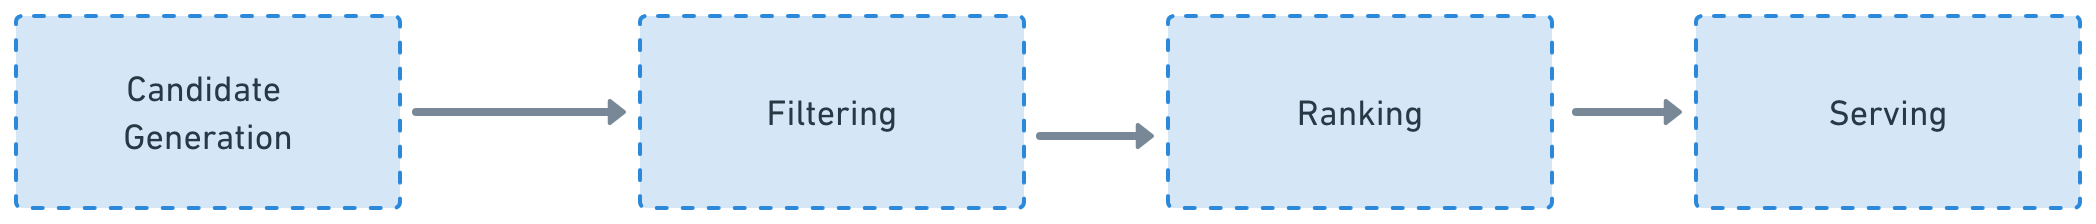
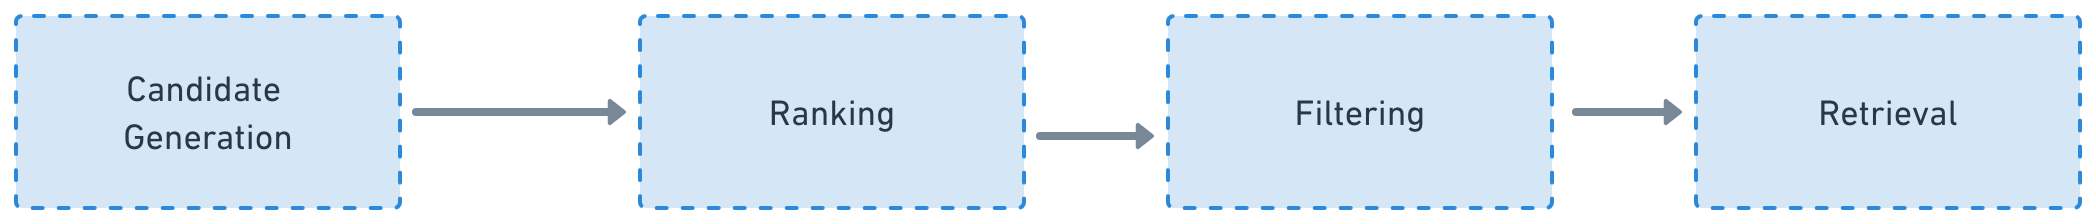
Updates from Overleaf

Changed region(s): [[0.3411, 0.4375, 0.4342, 0.5938], [0.8683, 0.4375, 0.9303, 0.5938], [0.6202, 0.4375, 0.6823, 0.5938]]

diff --git a/embeddings.tex b/embeddings.tex
@@ -637,7 +637,9 @@ We have finally trained our model. Now, we test the model's predictions on the 2
 We just saw a simple example of machine learning as it relates to predicting continuous response variables. When our business question is, "What would be good content to show our users," we are facing the machine learning task for recommendation. Recommender systems are systems set up for \textbf{information retrieval}, a field closely related to NLP that's focused on finding relevant information in large collections of documents.  The goal of information retrieval is to synthesize large collections of unstructured text documents. Within information retrieval, there are two complementary solutions in how we can offer users the correct content in our app: search, and recommendations.
 
 \begin{formal}
-\textbf{Search} is the problem of directed \citep{ekstrand2019recommender} information seeking, i.e. the user offers the system a specific query and would like a set of refined results. Search engines at this point are a well-established traditional solution in the space. \textbf{Recommendation} is a problem where "man is the query." \citep{seaver2022computing}  Here, we don't know what the person is looking for exactly, but we would like to infer what they like, and recommend items based on their learned tastes and preferences.
+\textbf{Search} is the problem of directed \citep{ekstrand2019recommender} information seeking, i.e. the user offers the system a specific query and would like a set of refined results. Search engines at this point are a well-established traditional solution in the space. 
+
+\textbf{Recommendation} is a problem where "man is the query." \citep{seaver2022computing}  Here, we don't know what the person is looking for exactly, but we would like to infer what they like, and recommend items based on their learned tastes and preferences.
 \end{formal}
 
 The first industrial recommender systems were created to filter messages in email and newsgroups \citep{goldberg1992using}  at the Xerox Palo Alto Research Center based on a growing need to filter incoming information from the web.  The most common recommender systems today are those at Netflix, YouTube, and other large-scale platforms that need a way to surface relevant content to users.
@@ -646,13 +648,11 @@ The goal of recommender systems is surface items that are relevant to the user. 
 
 \begin{formal}
 \begin{itemize}
-
-  \item \textbf{Collaborative filtering} - The most common approach users activity from log data (product ratings, clicks on content) in relation to the available items to be rated in order to compute the given utility of an item for a user. There are \textbf{neighborhood models}, where ratings are predicted initially by finding users similar to our given target user and we use similarity functions to compute the closeness of users.
- 
-  Another common approach is using \textbf{model-based} methods such  \textbf{matrix factorization}, the process of representing users and items in a feature matrix made up of low-dimensional factor vectors, which in our case, are also known as embeddings, and learning those feature vectors through the process of minimizing a cost function. This process can be thought of as similar to Word2Vec \citep{levy2014neural}, a deep learning model which we'll discuss in depth in this document.  There are many different approaches to collaborative filtering, including matrix factorization and  \textbf{factorization machines}.
-   \item \textbf{Content filtering} - This approach uses metadata available about our items (for example in movies or music, the title, year released, genre, and so on) as initial or additional features input into models and work well when we don't have much information about user activity, although they are often used in combination with collaborative filtering approaches. Many embeddings architectures fall into this category since they help us model the features for our items.  
-  \item \textbf{Learn to Rank} - Usually machine learning problems like matrix factorization are formulated by minimizing the error of a cost function. Learn to rank methods focus on ranking items in relation to each other based on a known set of preferred rankings and the error is, instead, cases when pairs or lists of items are ranked incorrectly. Here,the problem is not presenting a single item but a set of items and how they interplay. This step would normally take place after candidate generation, in a filtering step because it's computationally expensive to rank extremely large lists.
-  \item \textbf{Neural Recommendations} - The process of using neural networks to capture the same relationships that matrix factorization does without explicitly having to create a user/item matrix and based on the shape of the input data. This is where deep learning networks, and recently, large language models, come into play. Examples of deep learning architectures used for recommendation include Word2Vec and BERT, which we'll cover in this document, and convolutional and recurrent neural networks for sequential recommendation. The big benefit deep learning brings to the table is the ability to better model content-based recommendations and give us representations of our items in the embedding space. \citep{zhang2019deep}
+  \item \textbf{Collaborative filtering} - The most common approach for creating recommendations is to formulate our data as a problem of finding missing user-item interactions in a given set of user-item interaction history. We start by collecting either explicit (ratings) data or \textbf{implicit} user interaction data like clicks, pageviews, or time spent on items, and compute. The simplest form of interactions are \textbf{neighborhood models}, where ratings are predicted initially by finding users similar to our given target user. We use similarity functions to compute the closeness of users.
+  Another common approach is using methods such  \textbf{matrix factorization}, the process of representing users and items in a feature matrix made up of low-dimensional factor vectors, which in our case, are also known as embeddings, and learning those feature vectors through the process of minimizing a cost function. This process can be thought of as similar to Word2Vec \citep{levy2014neural}, a deep learning model which we'll discuss in depth in this document.  There are many different approaches to collaborative filtering, including matrix factorization and  \textbf{factorization machines}.
+   \item \textbf{Content filtering} - This approach uses metadata available about our items (for example in movies or music, the title, year released, genre, and so on) as initial or additional features input into models and work well when we don't have much information about user activity, although they are often used in combination with collaborative filtering approaches. Many embeddings architectures fall into this category since they help us model the textual features for our items.  
+  \item \textbf{Learn to Rank} -  Learn to rank methods focus on ranking items in relation to each other based on a known set of preferred rankings and the error is the number of cases when pairs or lists of items are ranked incorrectly. Here, the problem is not presenting a single item, but a set of items and how they interplay. This step normally takes place after candidate generation, in a filtering step, because it's computationally expensive to rank extremely large lists.
+  \item \textbf{Neural Recommendations} - The process of using neural networks to capture the same relationships that matrix factorization does without explicitly having to create a user/item matrix and based on the shape of the input data. This is where deep learning networks, and recently, large language models, come into play. Examples of deep learning architectures used for recommendation include Word2Vec and BERT, which we'll cover in this document, and convolutional and recurrent neural networks for sequential recommendation (such as is found in music playlists, for example). Deep learning brings allows us to better model content-based recommendations and give us representations of our items in an embedding space. \citep{zhang2019deep}
 \end{itemize}
 \end{formal}
 
@@ -664,24 +664,20 @@ Recommender systems have evolved  their own unique architectures\footnote{For a 
 \caption{Recommender systems as a machine learning problem}
 \end{figure}
 
+\begin{formal}
 \begin{itemize}
   \item \textbf{Candidate Generation} - First, we ingest data from the web app.  This data goes into the initial piece, which hosts our first-pass model generating \textbf{candidate recommendations}. This is where collaborative filtering takes place, and we whittle our list of potential candidates down from millions to thousands or hundreds.
-  \item \textbf{Filtering} - Once we have a generated list of candidates, we want to continue to filter them, using business logic (i.e. we don't want to see NSFW content, or items that are not on sale, for example.). This is generally a heavily heuristic-based step.
   \item \textbf{Ranking} - Finally, we need a way to order the filtered list of recommendations based on what we think the user will prefer the most, so the next stage is \textbf{ranking}, and then we serve them out in the timeline or the ML product interface we're working with.
+  \item \textbf{Filtering} - Once we have a generated list of candidates, we want to continue to filter them, using business logic (i.e. we don't want to see NSFW content, or items that are not on sale, for example.). This is generally a heavily heuristic-based step.
   \item \textbf{Retrieval} - This is the piece where the web application usually hits a model endpoint to get the final list of items served to the user through the product UI.
 \end{itemize}
+\end{formal}
     
-Databases have become the fundamental tool in building backend infrastructure that performs data lookups. Embeddings have become similar building blocks in the creation of many modern search and recommendation product architectures.Embeddings are a type of \textbf{machine learning feature} that we use first as input into the feature engineering stage, and the first set of results that come from our candidate generation stage, that are then incorporated into downstream processing steps of ranking and retrieval to produce the final items the user sees.
-
-\begin{figure}[H]
-\centering{\includegraphics[width=\textwidth]{figures/embed_flow.png}}
-\caption{Embeddings in the context of building an ML candidate generator model}
-\end{figure}
-
+Databases have become the fundamental tool in building backend infrastructure that performs data lookups. Embeddings have become similar building blocks in the creation of many modern search and recommendation product architectures. Embeddings are a type of \textbf{machine learning feature} --- or model input data --- that we use first as input into the feature engineering stage, and the first set of results that come from our candidate generation stage, that are then incorporated into downstream processing steps of ranking and retrieval to produce the final items the user sees.
 
 \subsubsection{Machine learning features}
 
-Now that we have a high-level conceptual view of recommender systems, let's build towards the candidate generation model that will offer relevant flits.
+Now that we have a high-level conceptual view of how machine learning and recommender systems work, let's build towards a candidate generation model that will offer relevant flits.
 
 Let's start by modeling a traditional machine learning problem and contrast it with our NLP problem. For example, let's say that one of our business problems is predicting whether a bird is likely to continue to stay on Flutter or to churn\footnote{An extremely common business problem to solve in almost every industry where either customer population or subscription based on revenues is important} --- disengage and leave the platform.
 
@@ -720,7 +716,7 @@ These are all discrete features that we can feed into our model and learn weight
 The process of formatting data correctly to feed into a model is called \textbf{feature engineering}. When we have a single continuous, numerical feature, like “the age of the flit in days”, it’s easy to feed these features into a model. But, when we have textual data, we need to turn it into numerical representations so that we can compare these representations.  
 
 \subsection{Numerical Feature Vectors}
-Within the context of working with text in machine learning, we represent features as numerical vectors. We can think of each row in our tabular feature data as a vector. And a collection of features, or our tabular representation, is a matrix. For example, in the vector for our first user, $[012, 2, 'US', 5]$, we can see that this particular value is represented by four features. When we create vectors, we can run algorithmic computations over them and use them as inputs into ML models in the numerical form we require.
+Within the context of working with text in machine learning, we represent features as numerical vectors. We can think of each row in our tabular feature data as a vector. And a collection of features, or our tabular representation, is a matrix. For example, in the vector for our first user, \mintinline{python}{[012, 2, 'US', 5]}, we can see that this particular value is represented by four features. When we create vectors, we can run mathematical computations over them and use them as inputs into ML models in the numerical form we require.
 
 Mathematically, vectors are collections of coordinates that tell us where a given point is in space among many dimensions. For example, in two dimensions, we have a point $[2,5]$, representing \mintinline{python}{bird_posts} and \mintinline{python}{bird_likes}.
 
@@ -785,7 +781,7 @@ But how do we repres ent "US" or "UK" in this space? Because modern models conve
 
 
 \subsection{From Words to Vectors in Three Easy Pieces}
-In "Operating Systems: Three Easy Pieces", the authors write, "Like any system built by humans, good ideas accumulated in operating systems over time, as engineers learned what was important in their design." \citep{arpaci2018operating} The same is true for today's large language models. They were built on hundreds of foundational ideas over the course of decades.  There are, similarly, several fundamental concepts that make up the work of transforming words to numerical representations.
+In "Operating Systems: Three Easy Pieces", the authors write, "Like any system built by humans, good ideas accumulated in operating systems over time, as engineers learned what was important in their design." \citep{arpaci2018operating} Today's large language models were likewise built on hundreds of foundational ideas over the course of decades.  There are, similarly, several fundamental concepts that make up the work of transforming words to numerical representations.
 
 These show up over and over again, in every deep learning architecture and every NLP-related task\footnote{When we talk about tasks in NLP-based machine learning, we mean very specifically, what the machine learning problem is formulated to do. For example, we have the task of ranking, recommendation, translation, text summarization, and so on.}:
 
@@ -886,7 +882,7 @@ linenos
 from sklearn.preprocessing import OrdinalEncoder
 
 data = [['US'], ['UK'], ['NZ']]
-print(data)
+>>> print(data)
 [['US']
  ['UK']
  ['NZ']]
@@ -894,7 +890,7 @@ print(data)
 # our label features
 encoder = OrdinalEncoder()
 result = encoder.fit_transform(data)
-print(result)
+>>> print(result)
 [[2.]
  [1.]
  [0.]]
@@ -906,9 +902,7 @@ print(result)
 
 indicator encoding is, given $n$ categories (i.e. "US", "UK", and "NZ") encodes the variables into $n-1$ categories, creating a new feature for each category. So, if we have three variables, indicator encoding encodes into two indicator variables.  Why would we do this? If the categories are mutually exclusive, as they usually are in point-in-time geolocation estimates, if someone is in the US, we know for sure they're not in the UK and not in NZ, so it reduces computational overhead.
 
-If we instead use all the variables and they are very closely correlated, there is a chance we'll fall into something known as the \textbf{indicator variable trap}. We can predict one variable from the others, which means we no longer have feature independence. This generally isn't a risk for geolocation since there are more than 2 or 3 and if you're not in the US, it's not guaranteed that you're in the UK. So, if we have US = 1, UK = 2, and NZ = 3, and prefer more compact representations, we can use indicator encoding.
-
-However, many modern ML approaches don't require linear feature independence and use L1 regularization\footnote{Regularization is a way to prevent our model from overfitting. Overfitting means our model can exactly predict outcomes based on the training data, but it can't learn new inputs that we show it, which means it can't generalize} to prune feature inputs that don't minimize the error, and as such only use one-hot encoding.
+If we instead use all the variables and they are very closely correlated, there is a chance we'll fall into something known as the \textbf{indicator variable trap}. We can predict one variable from the others, which means we no longer have feature independence. This generally isn't a risk for geolocation since there are more than 2 or 3 and if you're not in the US, it's not guaranteed that you're in the UK. So, if we have US = 1, UK = 2, and NZ = 3, and prefer more compact representations, we can use indicator encoding.  However, many modern ML approaches don't require linear feature independence and use L1 regularization\footnote{Regularization is a way to prevent our model from \textbf{overfitting}. Overfitting means our model can exactly predict outcomes based on the training data, but it can't learn new inputs that we show it, which means it can't generalize} to prune feature inputs that don't minimize the error, and as such only use one-hot encoding.
 
 \textbf{One-hot encoding} is the most commonly-used of the count-based methods. This process creates a new variable for each feature that we have.  Everywhere the element is present in the sentence, we place a “1” in the vector. We are creating a mapping of all the elements in the feature space, where $0$ indicates a non-match and $1$ indicates a match, and comparing how similar those vectors are.
 
@@ -928,10 +922,10 @@ enc = OneHotEncoder(handle_unknown='ignore')
 data = np.asarray([['US'], ['UK'], ['NZ']])
 enc.fit(data)
 enc.categories_
-# Result: [array(['NZ', 'UK', 'US'], dtype='<U2')]
+>>> [array(['NZ', 'UK', 'US'], dtype='<U2')]
 onehotlabels = enc.transform(data).toarray()
 onehotlabels
-# Result:
+>>> 
 array([[0., 0., 1.],
    	[0., 1., 0.],
    	[1., 0., 0.]])
@@ -956,7 +950,7 @@ Now that we've encoded our textual features as vectors, we can feed them into th
 
 What we've built is a standard \textbf{logistic regression model}. Generally these days the machine learning community has converged on using gradient-boosted decision tree methods for dealing with tabular data, but we'll see that neural networks build on simple linear and logistic regression models to generate their output, so it's a good starting point.
 
-\textbf{Embeddings as feature inputs}
+\subsubsection*{Embeddings as larger feature inputs}
 
 Once we have encoded our feature data, we can use this input for any type of model that accepts tabular features.  In our machine learning task, we were looking for output that indicated whether a bird was likely to leave the platform based on their location and some usage data. Now, we'd like to focus specifically on surfacing flits that are similar to other flits the user has already interacted with so we'll need feature representations of either/or our users or our content.
 
@@ -984,8 +978,7 @@ We also have other flits we may or may not want to surface in our bird's feed.
 
 How would we turn this into a machine learning problem that takes features as input and a prediction as an output, knowing what we know about how to do this already?  First, in order to build this matrix, we need to turn each word into a feature that's a column value and each user remains a row value.
 
-
-The best way to think of the difference between tabular and free-form representations as model inputs is this illustration, where we're moving from looking at creating a row of individual features per bird, aka \mintinline{Python}{bird1 = [012,2,"US", 5]}, to a row a string of text. In both cases, each of these are vectors, or a list of values that represents a single bird.
+The best way to think of the difference between tabular and free-form representations as model inputs is that a row of tabular data looks like this, \mintinline{Python}{bird1 = [012,2,"US", 5]}, and a "row" or document of text data looks like this, \mintinline{Python}{bird1 = ["No bird soars too high if he soars with his own wings."] } In both cases, each of these are vectors, or a list of values that represents a single bird.
 
 In traditional machine learning, rows are our user data about a single bird and columns are features about the bird. In recommendation systems, our rows are the individual data about each user, and our column data represents the given data about each flit.  If we can factor this matrix, that is decompose it into two matrices ($Q$ and $P^T$) that, when multiplied, the product is our original matrix ($R$), we can learn the "latent factors" or features that allow us to group similar users and items together to recommend them.
 
@@ -1025,13 +1018,13 @@ empty node/.style={fill=none}]
         	&  &  &  &  &  &  &  &  &  &  &  \\
         	&  &  &  &  &  &  &  &  &  &  & \\
 };
-\node[rotate=-90,right=1.5ex of mat3,xshift=-2em,blue] {factors};
+\node[rotate=-90,right=1.5ex of mat3,xshift=-2em,blue] {latent factors};
 \node[above=0ex of mat3,blue] {words};
 \node[below=0.2ex of mat3,scale=2.5,blue] {$\mathsf{P^T}$};
 \end{tikzpicture}
 
 
-The factorization of our feature matrix into these two matrices, where the rows in matrix Q are actually embeddings \citep{levy2014neural} for users and the rows in matrix P are embeddings for tweets, allows us to fill in values for flits that Flutter users have not explicitly liked, and then perform a search across the matrix to find other words they might be interested in. The end-result is our generated recommendation candidates, which we then filter downstream and surface to the user because the core of the recommendation problem is to recommend items to the user.
+The factorization of our feature matrix into these two matrices, where the rows in columns Q are actually embeddings \citep{levy2014neural} for users and the rows in matrix P are embeddings for tweets, allows us to fill in values for flits that Flutter users have not explicitly liked, and then perform a search across the matrix to find other words they might be interested in. The end-result is our generated recommendation candidates, which we then filter downstream and surface to the user because the core of the recommendation problem is to recommend items to the user.
 
 In this base-case scenario, each column could be a single word in the entire vocabulary of every flit we have and the vector we create, shown in the matrix frequency table, would be an insanely large, sparse vector that has a $0$ of occurrence of words in our vocabulary. The way we can build toward this representation is to start with a structure known as a \textbf{bag of words}, or simply the frequency of appearance of text in a given document (in our case, each flit is a document.) This matrix is the input data structure for many of the early approaches to embedding.
 
@@ -1110,7 +1103,7 @@ Sparse vectors result in a number of problems, among these \textbf{cold start}--
 
 To address the limitations of one-hot encoding, TF-IDF, or term frequency-inverse document frequency was developed. TF-IDF was introduced in the 1970s\footnote{By Karen Spärck Jones, whose paper, \href{https://blog.babbar.tech/who-is-karen-sparck-jones/}{"Synonymy and semantic classification} is fundamental to the field of NLP} as a way to create a vector representation of a document by averaging all the document's word weights. It worked really well for a long time and still does in many cases.  For example, one of the most-used search functions, BM25, uses TF-IDF as a baseline  \citep{schutze2008introduction} as a default search strategy in Elasticsearch/Opensearch \footnote{You can read about how Elasticsearch implements BM25 \href{https://www.elastic.co/blog/practical-bm25-part-1-how-shards-affect-relevance-scoring-in-elasticsearch}{here}}. It extends TF-IDF to develop a probability associated with the probability of relevance for each pair of words in a document and it is still being applied in neural search today  \citep{svore2009machine}.  
 
-TF-IDF will tell you how important a single word is in a corpus by assigning it a weight and, at the same time, down-weight common words like "the, a, and." This calculated weight gives us a feature for a single word TF-IDF, and also the relevance of the features across the vocabulary.
+TF-IDF will tell you how important a single word is in a corpus by assigning it a weight and, at the same time, down-weight common words like ,"a", "and", and "the". This calculated weight gives us a feature for a single word TF-IDF, and also the relevance of the features across the vocabulary.
 
 We take all of our input data that's structured in sentences and break it up into individual words, and perform counts on its values, generating the bag of words. TF is term frequency, or the number of times a term appears in a document relative to the other terms in the document.
 
@@ -1238,10 +1231,7 @@ A key problem that makes up the fundamental problem in collaborative filtering a
 
 Mathematically, we can do this by looking at the distance metric between any two given sets of items, and there are a number of different approaches, including  Euclidean distance, edit distance (more specifically, Levenshtein distance and Hamming distance), cosine distance, and more advanced compression approaches like \textbf{minhashing}.
 
-The most commonly used approach in most models where we're trying to ascertain the semantic closeness of two items is \textbf{cosine similarity}, which is the cosine of the angle between two objects represented as vectors, bounded between -1 and 1. -1 means the two items are completely "opposite" of each other and 1 means they are completely the same item. Zero means that you should probably use a distance measure other than cosine similarity because the vectors are entirely unrelated. One point of clarification here is that cosine distance is the actual distance measure and is calculated as $1 - cosine similarity$.
-
-
-
+The most commonly used approach in most models where we're trying to ascertain the semantic closeness of two items is \textbf{cosine similarity}, which is the cosine of the angle between two objects represented as vectors, bounded between -1 and 1. -1 means the two items are completely "opposite" of each other and 1 means they are completely the same item, assuming unit length. Zero means that you should probably use a distance measure other than cosine similarity because the vectors are completely orthogonal to each other. One point of clarification here is that cosine distance is the actual distance measure and is calculated as $1 - {similarity}(\vec{a}, \vec{b})$.
 
 \begin{equation}
 \mathrm{similarity}(\vec{a}, \vec{b}) = \frac{\vec{a} \cdot \vec{b}}{|\vec{a}| |\vec{b}|} = \frac{\sum\limits_{i=1}^{n} a_i b_i}{\sqrt{\sum\limits_{i=1}^{n} a_i^2} \sqrt{\sum\limits_{i=1}^{n} b_i^2}}
@@ -1333,7 +1323,7 @@ Other commonly-used distance measures in semantic similarity and recommendations
 \begin{itemize}
   \item Euclidean distance - calculates the straight-line distance between two points 
   \item Manhattan Distance - Measures the distance between two points by summing the absolute differences of their coordinates
-  \item Jaccard Distance - Computes the dissimilarity between two sets by dividing the size of their intersection by the size of their union. Jaccard distance is caulcuated 
+  \item Jaccard Distance - Computes the dissimilarity between two sets by dividing the size of their intersection by the size of their union. 
   \item Hamming Distance  - Measures the dissimilarity between two sets by dividing the size of their intersection by the size of their union 
 \end{itemize}
 \end{formal}
@@ -1348,61 +1338,10 @@ SVD is a type of matrix factorization that represents a given input feature matr
 
 In the process of performing SVD and decomposing these matrices, we generate a matrix representation that includes the eigenvectors and eigenvalue pairs or the sample covariance pairs.
 
-
-\newcommand{\vect}{\mathbf}
-\newcommand{\nul}{\operatorname{Nul}}
-\newcommand{\col}{\operatorname{Col}}
-\newcommand{\row}{\operatorname{Row}}
-\begin{figure}[H]
-\centering{%
-\small
-\[
-\renewcommand{\arraystretch}{.3}
-   A= U\Sigma V^T=
-  \begin{matrix}
-	\underbrace{\left[\begin{matrix}\vect u_1 & \vect u_2 & \dots & \vect u_r\end{matrix}\right.}&
-	\underbrace{\left.\begin{matrix}\vect u_{r+1} & \dots &  \vect u_m\end{matrix}\right]}\\
-	\col A & \nul A^T
-  \end{matrix}
-  \begin{bmatrix}
-  	\sigma_1 & 0 & \dots & 0 & 0 & \dots & 0 \\
-     	0 & \sigma_2  & \dots & 0 & 0 & \dots & 0 \\
-     	\dots& & & & &  \\
-     	0 & 0 & \dots & \sigma_r  & 0 & \dots & 0 \\
-     	0 & 0 & \dots & 0 & 0 & \dots & 0 \\
-     	\dots& & & & &  \\
-     	0 & 0 & \dots & 0 & 0 & \dots & 0
-  \end{bmatrix}
-  \begin{bmatrix}
-	\vect v_1^T \\ \vect v_2^T \\ \dots \\ \vect v_r^T \\
-	\vect v_{r+1}^T \\ \dots \\ \vect v_n^T
-  \end{bmatrix}
-  \begin{matrix}
-	\left.\vphantom{\begin{bmatrix}
-   	\vect v_1^T \\ \vect v_2^T \\ \dots \\ \vect v_r^T
-   	\end{bmatrix}}\right\}\row A \\
-	\left.\vphantom{\begin{bmatrix}
-  	\vect v_{r+1}^T \\ \dots \\ \vect v_n^T
-	\end{bmatrix}}\right\}\nul A
-  \end{matrix}
-\]
-}
-\caption{SVD decomposes our feature matrix into three matrices}
-\end{figure}
-
-
 PCA uses the same initial input feature matrix, but whereas one-hot encoding simply converts the text features into numerical features that we can work with, PCA also performs compression and projects our items into a two-dimensional feature space.  The first principal component is the scaled eigenvector of the data, the weights of the variables that describe your data best, and the second is the weights of the next set of variables that describe your data best.
 
-The resulting model is a projection of all the words, clustered into a single space based on these dimensions. While we can't get individual meanings of all these components, it’s clear that the clusters of words, aka features, are \textbf{semantically similar}, that is they are close to each other in meaning\footnote{There are many definitions of semantic similarity - what does it mean for "king" and "queen" to be close to each other? - but a high-level approach involves using original sources like thesauri and dictionaries to create a structured knowledge base and offer a structured representation of terms and concepts based on nodes and edges, aka how often they appear near each other. \cite{chandrasekaran2021evolution}}. This can be conceptually hard to visualize, so here's an illustration of the principal components of the iris dataset among three features, represented in two vectors.
-
-\begin{figure}[H]
-    	\center{\includegraphics[width=\textwidth]
-    	{figures/pca.png}}
-    	\caption{PCA creates grouped clusters}
-  	\end{figure}
-
-
-
+The resulting model is a projection of all the words, clustered into a single space based on these dimensions. While we can't get individual meanings of all these components, it’s clear that the clusters of words, aka features, are \textbf{semantically similar}, that is they are close to each other in meaning\footnote{There are many definitions of semantic similarity - what does it mean for "king" and "queen" to be close to each other? - but a high-level approach involves using original sources like thesauri and dictionaries to create a structured knowledge base and offer a structured representation of terms and concepts based on nodes and edges, aka how often they appear near each other. \cite{chandrasekaran2021evolution}}. 
+ 
 The difference between the two is often confusing (people admitted as much in the 80s \cite{gerbrands1981relationships} when these approaches were still being worked out), and for the purposes of this survey paper we'll say that PCA can often be implemented using SVD \footnote{\href{https://scikit-learn.org/stable/modules/generated/sklearn.decomposition.PCA.html}{This is how it's implemented in the scikit-learn package}}.  
 
 
@@ -1410,7 +1349,7 @@ The difference between the two is often confusing (people admitted as much in th
 
 Because PCA performs computation on each combination of features to generate the two dimensions, it becomes immensely computationally expensive as the number of features grows.  Many of these early methods, like PCA, worked well for smaller datasets, like many of the ones used in traditional NLP research,  but as datasets continued to grow, they didn’t quite scale.  
 
-Other approaches grew out of TF-IDF and PCA to address their limitations, including \textbf{latent semantic analysis} (LSA) and \textbf{latent dirichlet analysis} (LDA) LDA\cite{cvitanic2016lda}.  Both of these approaches start with the input document matrix that we built in the last section. The underlying principle behind both of these models is that words that occur close together more frequently have more important relationships. LSA uses the same word weighting that we used for TF-IDF and looks to combine that matrix into a lower rank matrix, a cosine similarity matrix. In the matrix, the values for the cells range from [-1,1], where -1 represents documents that are complete opposites and 1 means the documents are identical. LSA then runs over the matrix and groups items together.  
+Other approaches grew out of TF-IDF and PCA to address their limitations, including \textbf{latent semantic analysis} (LSA) and \textbf{latent dirichlet analysis} (LDA) \cite{cvitanic2016lda}.  Both of these approaches start with the input document matrix that we built in the last section. The underlying principle behind both of these models is that words that occur close together more frequently have more important relationships. LSA uses the same word weighting that we used for TF-IDF and looks to combine that matrix into a lower rank matrix, a cosine similarity matrix. In the matrix, the values for the cells range from [-1,1], where -1 represents documents that are complete opposites and 1 means the documents are identical. LSA then runs over the matrix and groups items together.  
 
 LDA takes a slightly different approach. Although it uses the same matrix for input, it instead outputs a matrix where the rows are words and columns are documents. The distance measure, instead of cosine similarity, is the numerical value for the topic that the intersection of the word and document provide.  The assumption is that any sentence we input will contain a collection of topics, based on proportions of representation in relation to the input corpus, and that there are a number of topics that we can use to classify a given sentence. We initialize the algorithm by assuming that there is a non-zero probability that each word could appear in a topic. LDA initially assigns words to topics at random, and then iterates until it converges to a point where it maximizes the probability for assigning a current word to a current topic.  In order to do the word-to-topic mapping, LDA generates an embedding that creates a space of clusters of words or sentences that work together semantically.
 
@@ -1530,13 +1469,13 @@ However, as in other cases, when we reach high dimensions, SVMs completely fail 
 
 To get around the limitations of earlier textual approaches and keep up with growing size of text corpuses, in 2013, researchers at Google came up with an elegant solution to this problem using neural networks, called Word2Vec \citep{mikolov2013efficient}.  
 
-So far, we've moved from simple heuristics like one-hot encoding, to machine learning approaches like LSA and LDA that look to learn a dataset's modeled features.  Previously, like our original one-hot encodings, all the approaches to embedding focused on generating sparse vectors much . A sparse vector gives an indication that two words are related, but not that there is a semantic relationship between them. For example, “The dog changed the cat” and “the cat chased the dog” would have the same distance in the vector space, even though they’re two completely different sentences.
+So far, we've moved from simple heuristics like one-hot encoding, to machine learning approaches like LSA and LDA that look to learn a dataset's modeled features.  Previously, like our original one-hot encodings, all the approaches to embedding focused on generating sparse vectors much . A sparse vector gives an indication that two words are related, but not that there is a semantic relationship between them. For example, “The dog chased the cat” and “the cat chased the dog” would have the same distance in the vector space, even though they’re two completely different sentences.
 
 Word2Vec is a family of models that has several implementations, each of which focus on transforming the entire input dataset into vector representations and, more importantly, focusing  not only on the inherent labels of individual words, but on the relationship between those representations.
 
 There are two modeling approaches to Word2Vec - \textbf{continuous bag of words} (CBOW) and \textbf{skipgrams}, both of which generate dense vectors of embeddings but model the problem slightly differently. The end-goal of the Word2Vec model in either case is to learn the parameters that maximize that probability of a given word or group of words being an accurate prediction  \citep{goldberg2014word2vec}.
 
-In training skipgrams, we take a word from the initial input corpus and predict the probability that a given set of words surround it. In the case of our initial flit quote, "Hold fast to dreams for if dreams die, life is a broken-winged bird that cannot fly", we train the model to generate a set of embeddings that's the distance between all the words in the dataset and fill in the next several probabilities for the entire phrase, using the word "fast" as input.  
+In training skipgrams, we take a word from the initial input corpus and predict the probability that a given set of words surround it. In the case of our initial flit quote, "Hold fast to dreams for if dreams die, life is a broken-winged bird that cannot fly", the model's intermediate steps generate a set of embeddings that's the distance between all the words in the dataset and fill in the next several probabilities for the entire phrase, using the word "fast" as input.  
 
 \begin{figure}[H]
     	\center{\includegraphics[width=\textwidth]
@@ -1577,7 +1516,7 @@ At a high level, we have a list of input words that are processed through a seco
         	node[hidden neuron] (H-\name) at (\layersep,-\y cm) {};
 
 	% Draw the output layer node
-	\node[output neuron,pin={[pin edge={->}]right:Output Probability}, right of=H-3] (O) {};
+	\node[output neuron,pin={[pin edge={->}]right:Output Probability\\ Of hold-out word being correct}, right of=H-3] (O) {};
 
 	% Connect every node in the input layer with every node in the
 	% hidden layer.
@@ -1594,7 +1533,7 @@ At a high level, we have a list of input words that are processed through a seco
 	\node[annot,left of=hl] {Input Corpus};
 	\node[annot,right of=hl] {Linear \\ Regression};
 \end{tikzpicture}
-\caption{Word2Vec Neural Network architecture}
+\caption{Word2Vec CBOW Neural Network architecture}
 \end{figure}
 
 We'll run this implementation in PyTorch, the popular library for building neural network models. The best way to implement Word2Vec, especially if you're dealing with smaller datasets, is using \hyperlink{https://radimrehurek.com/gensim/}{Gensim}, but Gensim abstracts away the layers into inner classes, which makes for a fantastic user experience. But, since we're just learning about them, we'd like to see a bit more explicitly how they work, and PyTorch, although it does not have a native implementation of Word2Vec, lets us see the inner workings a bit more clearly.
@@ -1670,7 +1609,7 @@ class TextPreProcessor:
     	)
     	return vocab
 \end{minted}
-\caption{Processing our input vocabulary and building a Vocabulary object from our dataset in PyTorch\href{https://github.com/veekaybee/viberary/tree/main/word2vec}{source}}
+\caption{Processing our input vocabulary and building a Vocabulary object from our dataset in PyTorch \href{https://github.com/veekaybee/viberary/tree/main/word2vec}{source}}
 \end{figure}
 
 Now that we have an input vocabulary object we can work with, the next step is to create one-hot encodings of each word to a numerical position, and each position back to a word, so that we can easily reference both our words and vectors. The goal is to be able to map back and forth when we do lookups and retrieval.
